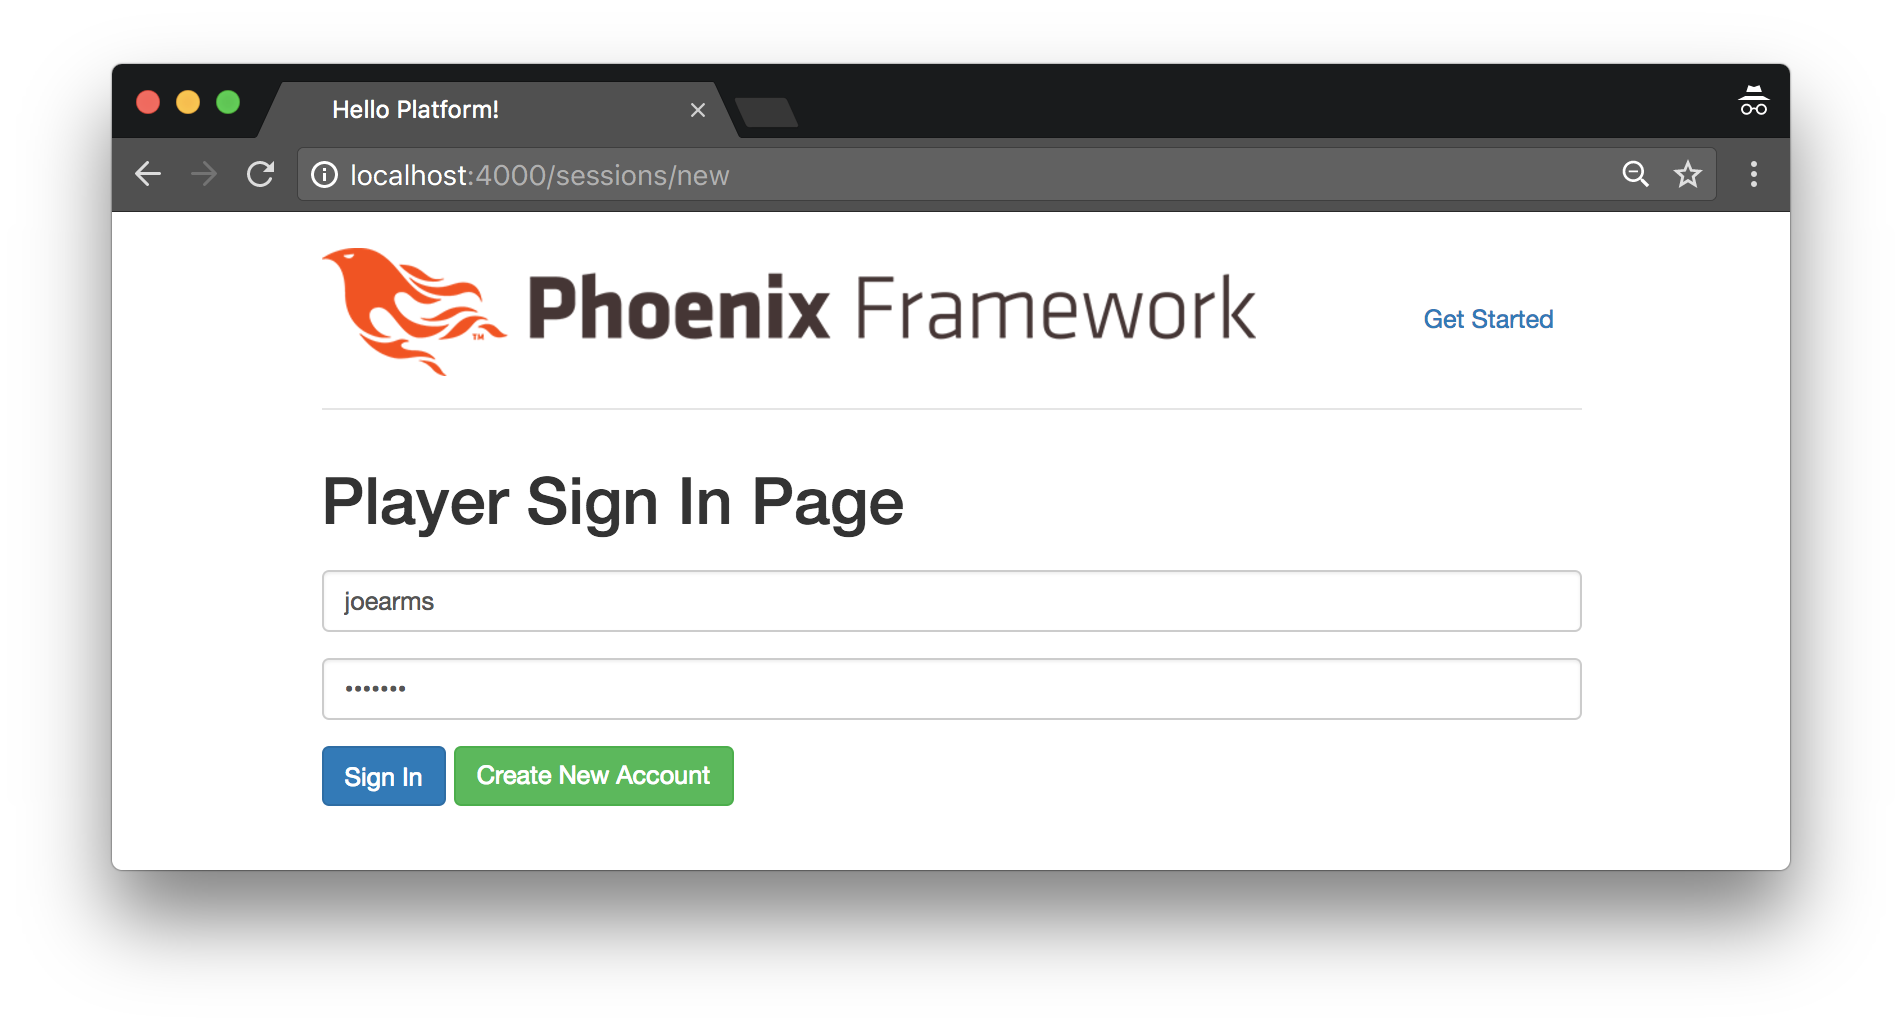
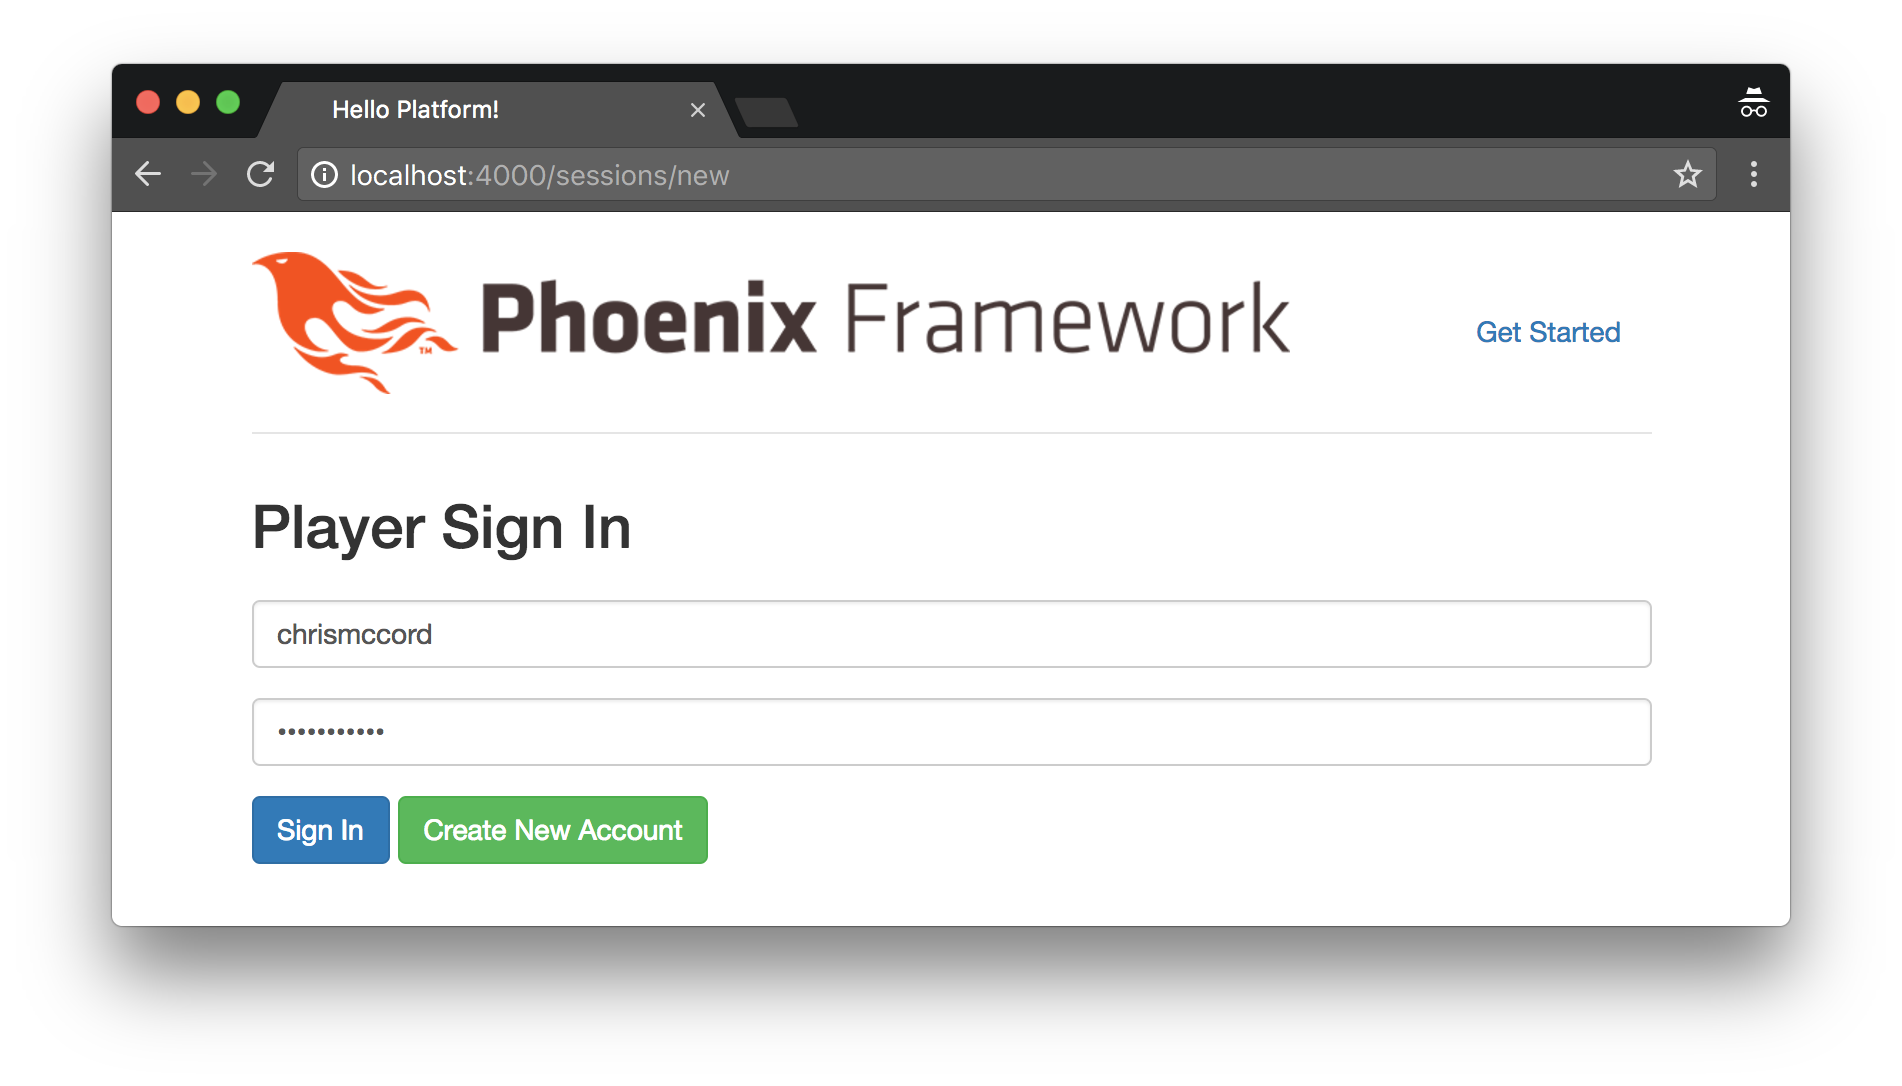
Fix all sign in and sign out content

diff --git a/manuscript/phoenix_authentication.md b/manuscript/phoenix_authentication.md
@@ -607,24 +607,24 @@ authenticated the new player at the same time.
 ## Sessions
 
 To complete our authentication features, we'll need to handle user sessions. We
-were able to handle logins in the previous section because we took care of it
-while creating an account, but now we'll also want to allow users to log out and
-log back in whenever they'd like.
+were able to handle sign ins in the previous section because we took care of it
+while creating an account, but now we'll also want to allow users to sign out
+and sign back in whenever they'd like.
 
 Let's start by creating a `PlayerSessionController`. Create a new file called
-`platform/lib/web/controllers/player_session_controller.ex`, and add the
+`lib/platform_web/controllers/player_session_controller.ex`, and add the
 following code:
 
 ```elixir
-defmodule Platform.Web.PlayerSessionController do
-  use Platform.Web, :controller
+defmodule PlatformWeb.PlayerSessionController do
+  use PlatformWeb, :controller
 
   def new(conn, _) do
     render conn, "new.html"
   end
 
   def create(conn, %{"session" => %{"username" => user, "password" => pass}}) do
-    case Platform.Web.PlayerAuthController.login_by_username_and_pass(conn, user, pass, repo: Platform.Repo) do
+    case PlatformWeb.PlayerAuthController.sign_in_with_username_and_password(conn, user, pass, repo: Platform.Repo) do
       {:ok, conn} ->
         conn
         |> put_flash(:info, "Welcome back!")
@@ -638,7 +638,7 @@ defmodule Platform.Web.PlayerSessionController do
 
   def delete(conn, _) do
     conn
-    |> Platform.Web.PlayerAuthController.logout()
+    |> PlatformWeb.PlayerAuthController.sign_out()
     |> redirect(to: player_session_path(conn, :new))
   end
 end
@@ -647,30 +647,30 @@ end
 This may seem like a lot at first, but we'll go through it quickly along with
 the updates we make to the `PlayerAuthController`.
 
-The `new/2` function will allow us to display a login page (as opposed to the
-sign up page that new players will use). When we create new sessions, we'll use
-a new function (which we'll create soon) called `login_by_username_and_pass/4`.
-Lastly, the `delete/2` function will allow us to log users out by deleting
-their session.
+The `new/2` function will allow us to display a **Player Sign In** page (as
+opposed to the **New Player** page that new players will use). When we create
+new sessions, we'll use a new function (which we'll create soon) called
+`sign_in_with_username_and_password/4`. Lastly, the `delete/2` function will
+allow users to sign out by deleting their session.
 
-## View and Template
+## Player Sign In View and Template
 
-Let's create the view and the template for our login page. Add a new file called
-`player_session_view.ex` inside the `lib/platform/web/views` folder. And add the
-following to the file:
+Let's create the view and the template for our player **Player Sign In** page.
+Add a new file called `player_session_view.ex` inside the
+`lib/platform_web/views` folder. Then, add the following to the file:
 
 ```elixir
-defmodule Platform.Web.PlayerSessionView do
-  use Platform.Web, :view
+defmodule PlatformWeb.PlayerSessionView do
+  use PlatformWeb, :view
 end
 ```
 
-And then we'll need to create the corresponding template. Create a
-`lib/platform/web/templates/player_session` folder, and then add a
+We'll also need to create the corresponding template. Create a
+`lib/platform_web/templates/player_session` folder, and then add a
 `new.html.eex` file inside with the following content:
 
-```elixir
-<h1>Player Sign In Page</h1>
+```embedded_elixir
+<h2>Player Sign In</h2>
 
 <%= form_for @conn, player_session_path(@conn, :create), [as: :session], fn f -> %>
   <div class="form-group">
@@ -684,82 +684,79 @@ And then we'll need to create the corresponding template. Create a
 <% end %>
 ```
 
-## Login Routing
+This gives us a **Player Sign In** page with a form for existing users to enter
+their `username` and `password`. And if they don't already have an account, we
+display a button at the bottom that links to the **New Player** page.
+
+Let's also update our **New Player** page with a link to the **Player Sign In**
+page for users that already have an account. Open the
+`lib/platform_web/templates/player/new.html.eex` file, and we'll add another
+button at the bottom.
+
+```embedded_elixir
+<div class="form-group">
+  <%= submit "Submit", class: "btn btn-primary" %>
+  <span><%= link "Sign In", to: player_session_path(@conn, :new), class: "btn btn-success" %></span>
+  <span><%= link "Back", to: page_path(@conn, :index), class: "btn btn-default" %></span>
+</div>
+```
+
+## Session Routing
 
 If you were still running a Phoenix server this whole time, you've probably
 noticed we've been creating errors in our application. But we're getting close
 to a working authentication system. We'll need to update our router to reflect
-our new session features. Open the `lib/platform/web/router.ex` file and add
+our new session features. Open the `lib/platform_web/router.ex` file and add
 our session resource:
 
 ```elixir
-scope "/", Platform.Web do
+scope "/", PlatformWeb do
   pipe_through :browser
 
   get "/", PlayerController, :new
-  get "/elm", PageController, :index
   resources "/players", PlayerController
   resources "/sessions", PlayerSessionController, only: [:new, :create, :delete]
 end
 ```
 
-This will add only the necessary routes so our players can create and delete
-their sessions to log in and out of the platform.
+This will add the necessary routes so our players can create and delete their
+sessions to sign in and out of the platform.
 
-## Logging In and Out
+## Signing In and Out
 
-Lastly, we'll create the function in our `PlayerAuthController` that ties
-everything together. Add the `login_by_username_and_pass/4` function at the
-bottom of the `lib/platform/controllers/player_auth_controller.ex` file, and
-don't forget to add the `import` for our encryption at the top. Here's what
-the full code should look like for the file:
+Lastly, we'll create the functions in our `PlayerAuthController` that tie
+everything together. Add the `sign_in_with_username_and_password/4` function and
+the `sign_out/1` functions below the `sign_in/2` function at the bottom of the
+`lib/platform_web/controllers/player_auth_controller.ex` file.
 
 ```elixir
-defmodule Platform.Web.PlayerAuthController do
-  import Plug.Conn
-  import Comeonin.Bcrypt, only: [checkpw: 2, dummy_checkpw: 0]
+def sign_in_with_username_and_password(conn, username, given_pass, opts) do
+  repo = Keyword.fetch!(opts, :repo)
+  player = repo.get_by(Player, username: username)
 
-  def init(opts) do
-    Keyword.fetch!(opts, :repo)
+  cond do
+    player && Comeonin.Bcrypt.checkpw(given_pass, player.password_digest) ->
+      {:ok, sign_in(conn, player)}
+    player ->
+      {:error, :unauthorized, conn}
+    true ->
+      Comeonin.Bcrypt.dummy_checkpw()
+      {:error, :not_found, conn}
   end
+end
 
-  def call(conn, repo) do
-    player_id = get_session(conn, :player_id)
-    player = player_id && repo.get(Platform.Accounts.Player, player_id)
-    assign(conn, :current_user, player)
-  end
-
-  def login(conn, player) do
-    conn
-    |> assign(:current_user, player)
-    |> put_session(:player_id, player.id)
-    |> configure_session(renew: true)
-  end
-
-  def login_by_username_and_pass(conn, username, given_pass, opts) do
-    repo = Keyword.fetch!(opts, :repo)
-    player = repo.get_by(Platform.Accounts.Player, username: username)
-
-    cond do
-      player && checkpw(given_pass, player.password_hash) ->
-        {:ok, login(conn, player)}
-      player ->
-        {:error, :unauthorized, conn}
-      true ->
-        dummy_checkpw()
-        {:error, :not_found, conn}
-    end
-  end
-
-  def logout(conn) do
-    configure_session(conn, drop: true)
-  end
+def sign_out(conn) do
+  configure_session(conn, drop: true)
 end
 ```
 
-What the `login_by_username_and_pass/4` function does is to grab the player
-from the database by their `username` field. If the player exists and has the
-correct password, they will be logged in. Otherwise, we'll return an error.
+What the `sign_in_with_username_and_password/4` function does is to grab the
+player from the database by their `username` field. If the player exists and
+has the correct password, they will be signed in. Otherwise, we'll return an
+error.
+
+For the `sign_out/1` function, we're dropping the current user's session to
+sign them out of the platform.
 
 ## Trying Things Out
 
@@ -769,17 +766,17 @@ you're using Google Chrome on OS X, you can create a new incognito window with
 `Command + Shift + N`. It's also a good idea to restart your Phoenix server
 with `mix phx.server` at this point to get things up and running.
 
-We can test out the **Player Sign In Page** with the same account that we
-created in the previous sections. Go to the new session page at
-`http://0.0.0.0:4000/sessions/new` and try entering `joearms` for both the
+We can test out the sign in process with the same account that we created in
+the previous sections. Go to the **Player Sign In** page at
+`http://0.0.0.0:4000/sessions/new` and try entering `chrismccord` for both the
 `username` and `password` fields.
 
 ![Player Sign In Page](images/phoenix_authentication/player_sign_in_page.png)
 
-Success! We get a welcome back message letting us know that we were able to
-log in successfully:
+Success! We get a "Welcome back!" message letting us know that we were able to
+sign in successfully:
 
-![Successful Login](images/phoenix_authentication/successful_sign_in_message.png)
+![Successful Sign In](images/phoenix_authentication/successful_sign_in_message.png)
 
 ## Displaying the Player Status
 
